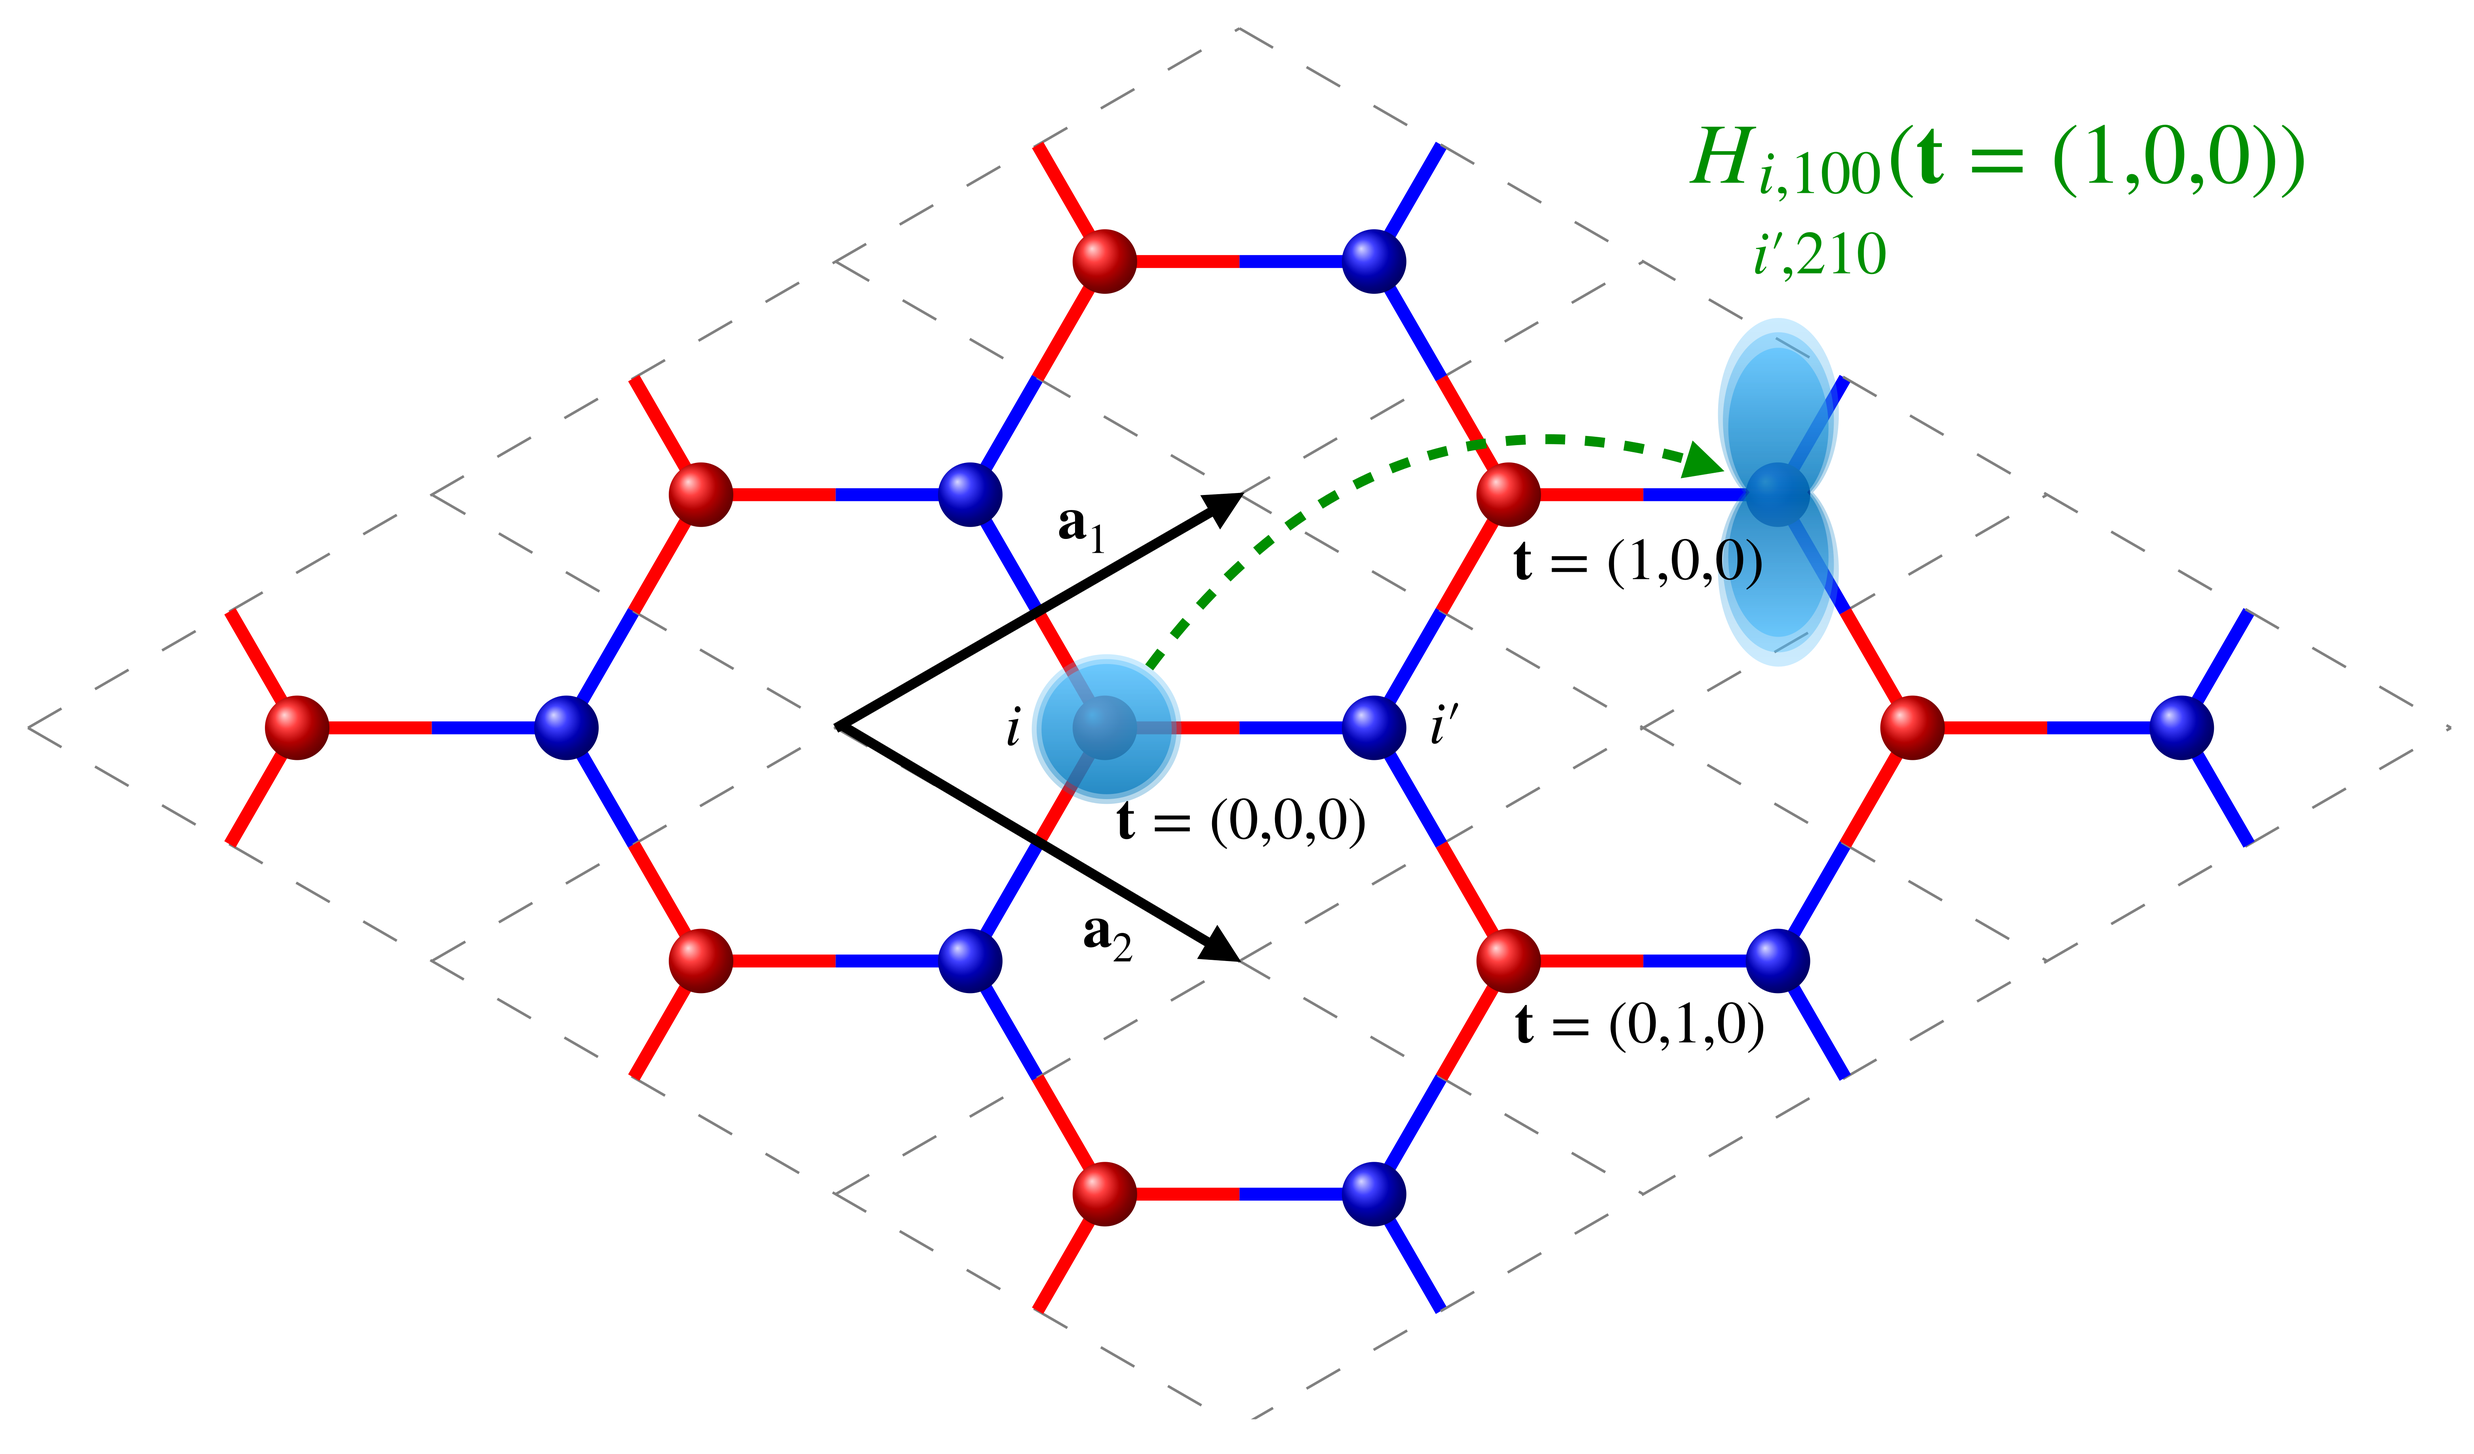
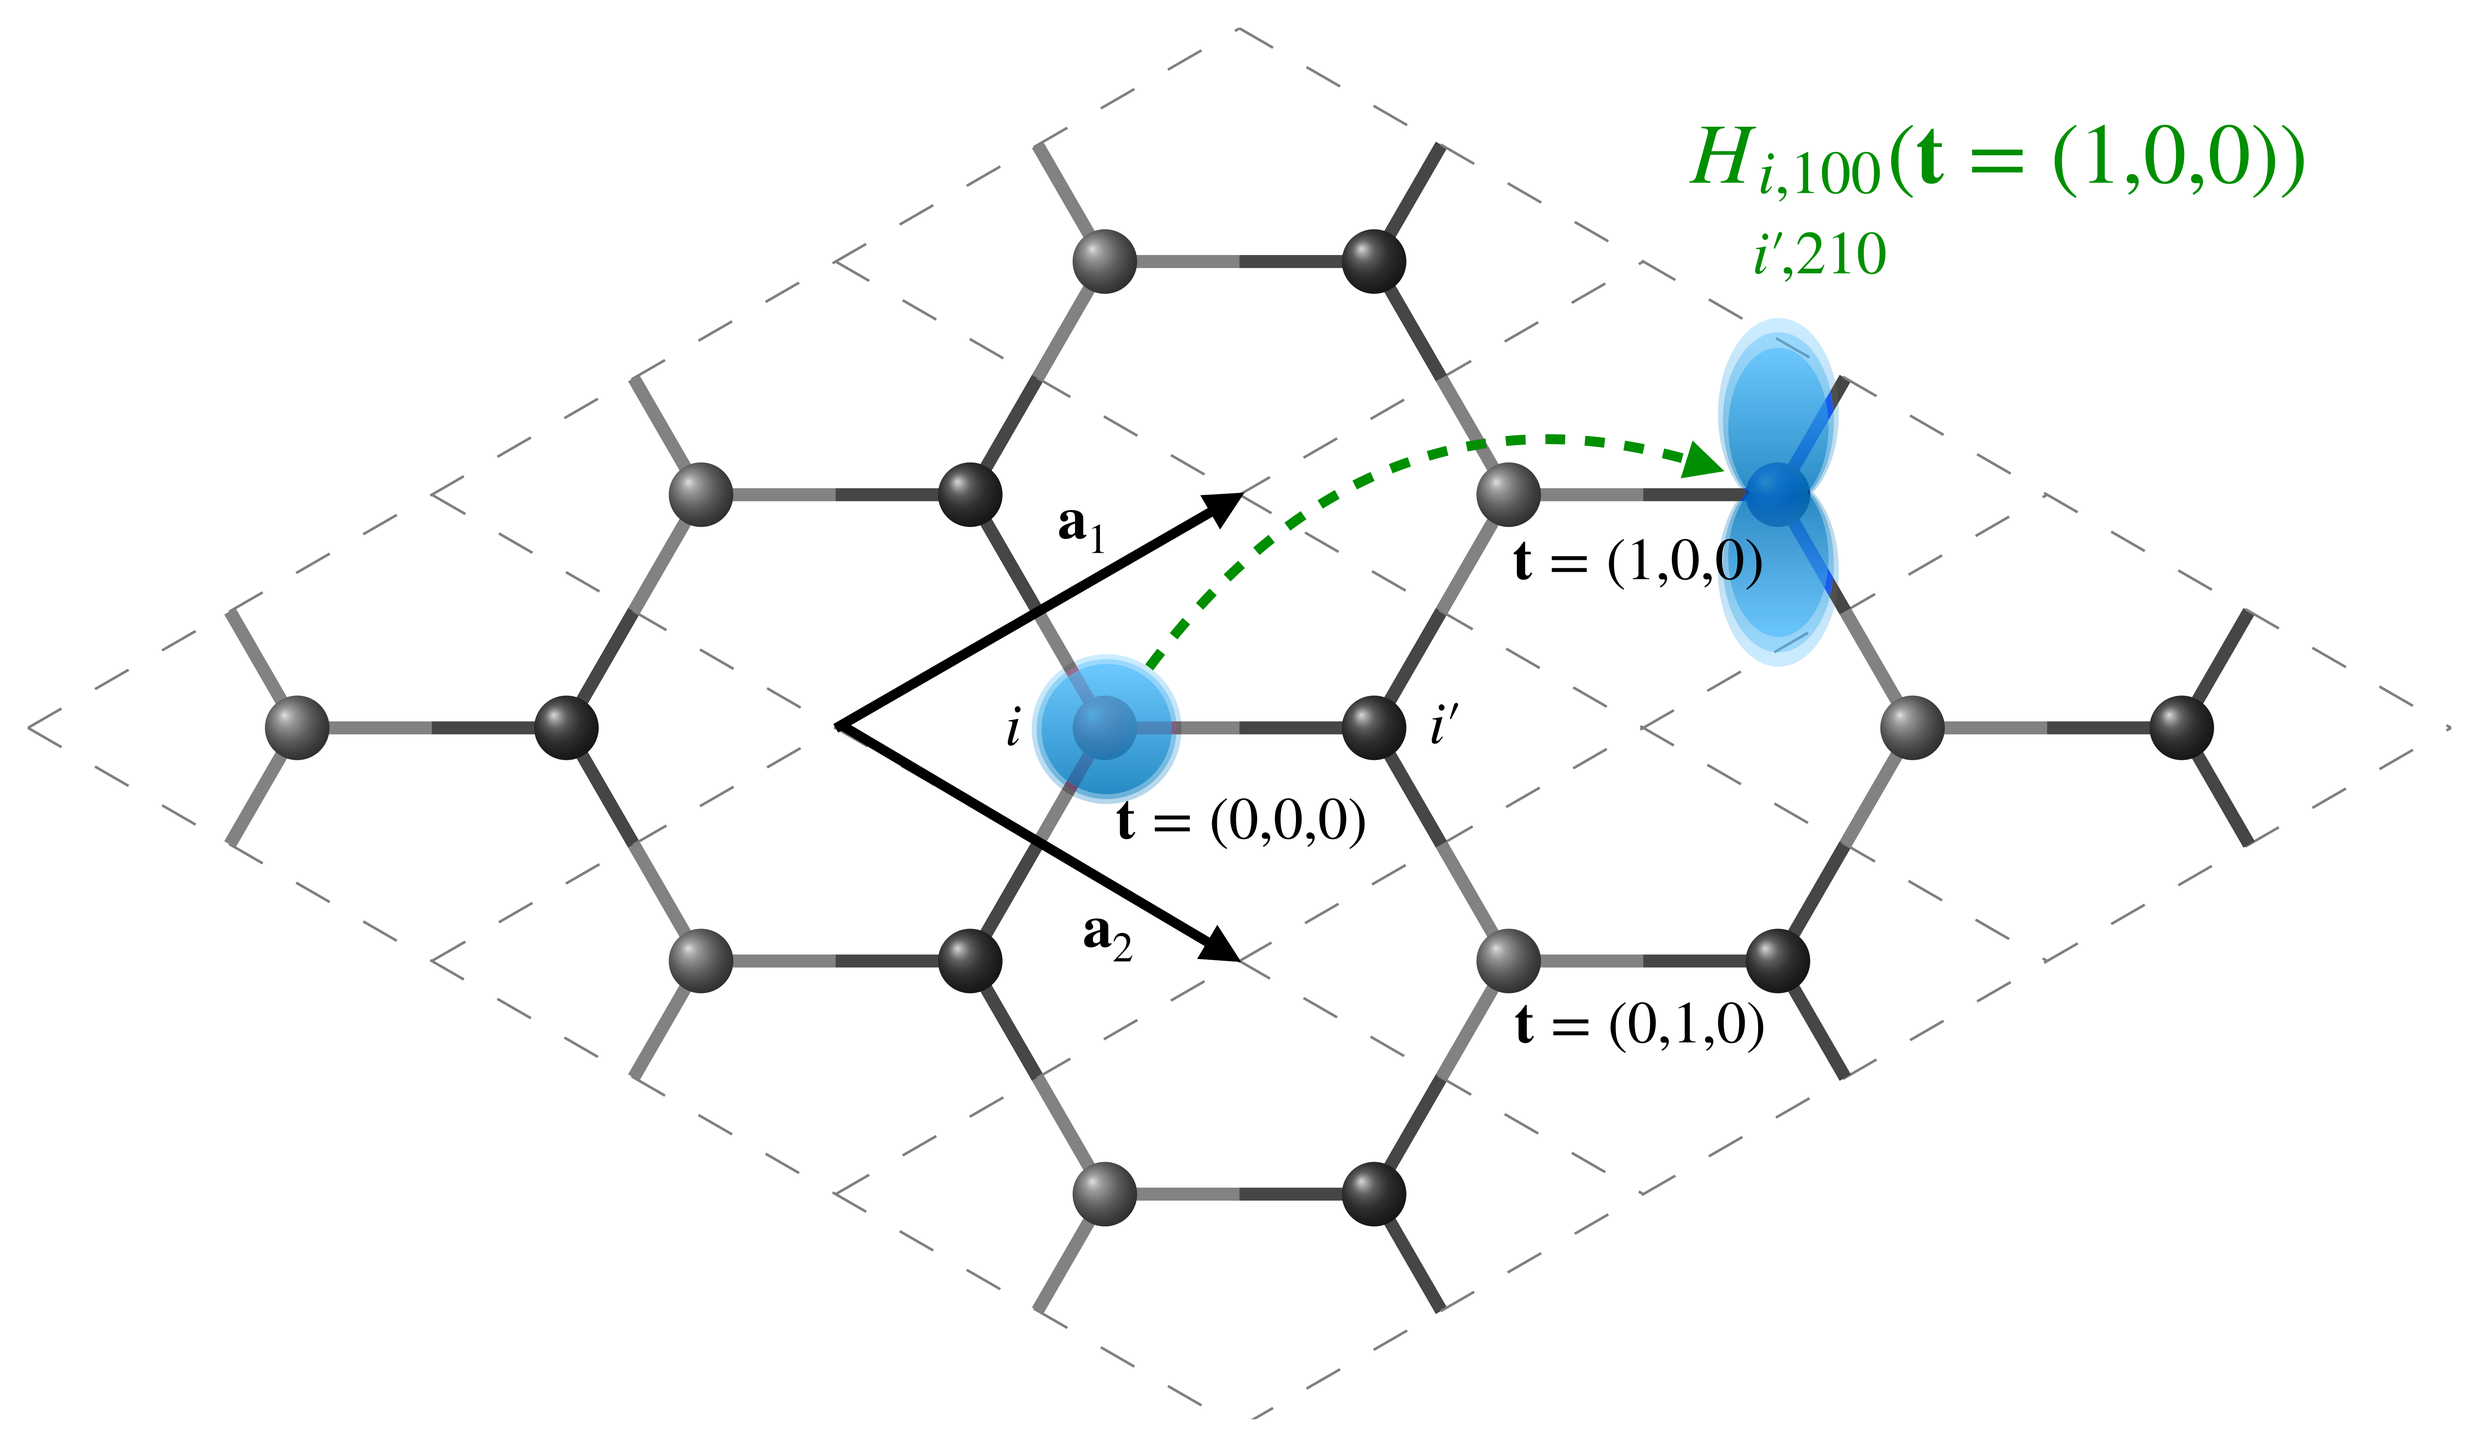
Carbon is gray - proofreading and small tweaks

diff --git a/examples/periodic-hamiltonian/periodic-hamiltonian.py b/examples/periodic-hamiltonian/periodic-hamiltonian.py
@@ -60,32 +60,36 @@ torch.set_default_dtype(torch.float64)
 # Obtain structures and DFT data
 # ~~~~~~~~~~~~~~~~~~~~~~~~~~~~~~
 #
-
+# Generating training structures requires running a suitable DFT code, 
+# and converting the output data in a format that can be processed by
+# the ML library ``mlelec``. Given that it takes some time to run even
+# these small calculations, we provide pre-computed data, but you can 
+# also find instructions on how to generate data from scratch. 
 
 # %%
+# Run your own cp2k calculations
+# ^^^^^^^^^^^^^^^^^^^^^^^^^^^^^^
+#
 # If you have computational resources, you can run the DFT calculations
 # needed to produce the data set. `This other
 # tutorial <https://tinyurl.com/cp2krun>`__ in the atomistic cookbook can
 # help you set up the CP2K calculations for this data set, using the
 # ``reftraj_hamiltonian.cp2k`` file provided in ``data/``. To do the same
 # for another data set, adapt the reftraj file.
-#
-# We will provide here some the functions in the `batch-cp2k
+# We will provide here some of the functions in the `batch-cp2k
 # tutorial <https://tinyurl.com/cp2krun>`__ that need to be adapted to the
-# current data set.
-#
+# current data set. Note however you will have to modify these and combine 
+# them with other tutorials to actually generate the data.
 
 
 # %%
-# Import all the modules from `batch-cp2k
+# Start by importing all the modules from the `batch-cp2k
 # tutorial <https://tinyurl.com/cp2krun>`__ and run the cell to install
 # CP2K. Run also the cells up to the one defining ``write_cp2k_in``.
-#
-# The following cell defines a slighly modified version of that functions,
-# allowing for non-orthorombic cells, and accounting for the reftraj file
+# The following code snippet defines a slighly modified version of that function,
+# allowing for non-orthorombic supercell, and accounting for the reftraj file
 # name change.
 #
-
 
 # %%
 # .. code:: python
@@ -122,7 +126,6 @@ torch.set_default_dtype(torch.float64)
 # current data set includes a single stoichiometry, :math:`\mathrm{C_2}`.
 # Therefore, you can run this cell to set the calculation scripts up.
 #
-
 
 # %%
 # .. code:: python
@@ -280,18 +283,15 @@ with zipfile.ZipFile(filename, "r") as zip_ref:
 
 
 # %%
-# Create a ``QMDataset`` storing the DFT data
-# ^^^^^^^^^^^^^^^^^^^^^^^^^^^^^^^^^^^^^^^^^^^
+# Periodic Hamiltonians in real and reciprocal space
+# ^^^^^^^^^^^^^^^^^^^^^^^^^^^^^^^^^^^^^^^^^^^^^^^^^^
 #
-
-
-# %%
 # The DFT calculations for the dataset above were performed using a
-# **minimal** STO-3G basis. The basis set is specified for each species
+# *minimal* STO-3G basis. The basis set is specified for each species
 # using three quantum numbers, :math:`n`, :math:`l`, :math:`m`. :math:`n`
-# is usually a natural number relating to the **radial** extent or
-# resolution whereas :math:`l` and :math:`m` specify the **angular
-# components** determining the shape of the orbital and its orientation in
+# is usually a natural number relating to the *radial* extent or
+# resolution whereas :math:`l` and :math:`m` specify the *angular
+# components* determining the shape of the orbital and its orientation in
 # space. For example, :math:`1s` orbitals correspond to :math:`n=2`,
 # :math:`l=0` and :math:`m=0`, while a :math:`2p_z` orbital corresponds to
 # :math:`n=2`, :math:`l=1` and :math:`m=1`. For the STO-3G basis-set,
@@ -306,15 +306,13 @@ orbitals = {
 
 
 # %%
-# We instantiate the ``QMDataset`` class that holds all the relevant data
-# obtained from a quantum-mechanical (in this case, DFT) calculation. In
-# particular, this instance will hold the **frames** which will form the
-# train and test structures, along with the corresponding **Hamiltonian**
-# (used interchangeably with Fock) and **overlap** matrices in the basis
-# specified above, and the :math:`k`-point grid that was used for the
+# For each *frame* which of either train and test structures, the QM data
+# comprises the configuration, along with the corresponding *overlap* and
+# *Hamiltonian* (used interchangeably with *Fock*) matrices in the basis
+# specified above, as well as the :math:`k`-point grid that was used for the
 # calculation.
 #
-# Note that we are currently specifying these matrices in **real-space**,
+# Note that we are currently specifying these matrices in *real-space*,
 # :math:`\mathbf{H}(\mathbf{t})` , such that the element
 # :math:`\langle \mathbf{0} i nlm| \hat{H}| \mathbf{t} i' n'l'm'\rangle`
 # indicates the interaction between orbital :math:`nlm` on atom :math:`i`
@@ -344,9 +342,9 @@ orbitals = {
 
 
 # %%
-# Alternatively, we can provide the matrices in **reciprocal** (or
+# Alternatively, we can provide the matrices in *reciprocal* (or
 # Fourier, :math:`k`) space. These are related to the real-space matrices
-# by a *Bloch* sum,
+# by a *Bloch sum*,
 #
 # .. math::
 #
@@ -359,7 +357,11 @@ orbitals = {
 #
 
 # %%
-# Now it is time to instantiate ``QMDataset`` from the files containing structures,
+# A ``QMDataset`` to store the DFT data
+# ^^^^^^^^^^^^^^^^^^^^^^^^^^^^^^^^^^^^^
+# The ``QMDataset`` class holds all the relevant data
+# obtained from a quantum-mechanical (in this case, DFT) calculation,
+# combining information from the files containing structures,
 # Hamiltonians and overlap matrices, and :math:`k`-point mesh.
 
 qmdata = QMDataset.from_file(
@@ -412,30 +414,30 @@ print(f"{qmdata.fock_realspace[structure_idx][realspace_translation]}")
 # %%
 # The data stored in ``QMDataset`` can be transformed into a format that
 # is optimal for machine learning modeling by leveraging the underlying
-# **physical symmetries** that characterize the atomistic structure, the
+# *physical symmetries* that characterize the atomistic structure, the
 # basis set, and their associated matrices.
 #
 # The Hamiltonian matrix is a complex learning target, indexed by two
 # atoms and the orbitals centered on them. Each
-# :math:`\mathbf{H}(\mathbf{k})` is a **Hermitian** matrix, while in real
-# space, periodicity introduces a **symmetry over translation pairs** such
+# :math:`\mathbf{H}(\mathbf{k})` is a *Hermitian* matrix, while in real
+# space, periodicity introduces a *symmetry over translation pairs* such
 # that :math:`\mathbf{H}(-\mathbf{t}) = \mathbf{H}(\mathbf{t})^\dagger`,
 # where the dagger, :math:`\dagger`, denotes Hermitian conjugation.
 #
 # To address the symmetries associated with swapping atomic indices or
-# orbital labels, we divide the matrix into **blocks labeled by pairs of
-# atom types**.
+# orbital labels, we divide the matrix into *blocks labeled by pairs of
+# atom types*.
 #
-# -  ``block_type = 0``, or **on-site** blocks, consist of elements
+# -  ``block_type = 0``, or *on-site* blocks, consist of elements
 #    corresponding to the interaction of orbitals on the same atom,
 #    :math:`i = i'`.
 #
-# -  ``block_type = 2``, or **cross-species** blocks, consist of elements
+# -  ``block_type = 2``, or *cross-species* blocks, consist of elements
 #    corresponding to orbitals centered on atoms of distinct species.
 #    Since the two atoms can be distinguished, they can be consistently
 #    arranged in a predetermined order.
 #
-# -  ``block_type = 1, -1``, or **same-species** blocks, consist of
+# -  ``block_type = 1, -1``, or *same-species* blocks, consist of
 #    elements corresponding to orbitals centered on distinct atoms of the
 #    same species. As these atoms are indistinguishable and cannot be
 #    ordered definitively, the pair must be symmetrized for permutations.
@@ -455,11 +457,11 @@ print(f"{qmdata.fock_realspace[structure_idx][realspace_translation]}")
 
 # %%
 # Even though the Hamiltonian operator under consideration is invariant,
-# **its representation transforms under the action of structural rotations
-# and inversions** due to the choice of the basis functions. Each of the
+# *its representation transforms under the action of structural rotations
+# and inversions* due to the choice of the basis functions. Each of the
 # blocks has elements of the form
 # :math:`\langle\mathbf{0}inlm|\hat{H}|\mathbf{t}i'n'l'm'\rangle`, which
-# are in an **uncoupled** representation and transform as a product of
+# are in an *uncoupled* representation and transform as a product of
 # (real) spherical harmonics, :math:`Y_l^m \otimes Y_{l'}^{m'}`.
 #
 # This product can be decomposed into a direct sum of irreducible
@@ -470,9 +472,11 @@ print(f"{qmdata.fock_realspace[structure_idx][realspace_translation]}")
 # which express the Hamiltonian blocks in terms of contributions that
 # rotate independently and can be modeled using a feature that
 # geometrically describes the pair of atoms under consideration and shares
-# the same symmetry.
+# the same symmetry. We use the notation 
+# :math:`H_{ii';nn'll'}^{\lambda\mu}` to indicate the elements of the 
+# Hamiltonian in this coupled basis.
 #
-# The resulting irreps form a **coupled** representation, each of which
+# The resulting irreps form a *coupled* representation, each of which
 # transforms as a spherical harmonic :math:`Y^\mu_\lambda` under
 # :math:`\mathrm{SO(3)}` rotations, but may exhibit more complex behavior
 # under inversions. For example, spherical harmonics transform under
@@ -480,12 +484,13 @@ print(f"{qmdata.fock_realspace[structure_idx][realspace_translation]}")
 #
 # .. math:: \hat{i}Y^\mu_\lambda = (-1)^\lambda Y^\mu_\lambda.
 #
-# Some of the coupled basis terms instead transform as pseudotensors,
+# Some of the coupled basis terms transform like :math:`Y^\mu_\lambda`,
+# while others instead transform as pseudotensors,
 #
-# .. math:: \hat{i}H_{ii'}^{\lambda\mu}=(-1)^{\lambda+1}H_{ii'}^{\lambda\mu}
+# .. math:: \hat{i}H^{\lambda\mu}=(-1)^{\lambda+1}H^{\lambda\mu}
 #
-# where the notation for Hamiltonian matrix elements in the coupled
-# representaion has been introduced. For more details about the block
+# where we omit for simplicity the indices that are not directly associated
+# with inversion and rotation symmetry. For more details about the block
 # decomposition, please refer to `Nigam et al., J. Chem. Phys. 156, 014115
 # (2022) <https://pubs.aip.org/aip/jcp/article/156/1/014115/2839817>`__.
 #
@@ -564,8 +569,8 @@ ani = FuncAnimation(fig, update, frames=len(images), interval=20, blit=True)
 # %%
 # The features are discretized on a basis of radial functions and
 # spherical harmonics, and their performance may depend on the
-# **resolution** of the functions included in the model. There are
-# additional hyperparameters, such as the **cutoff** radius, which
+# *resolution* of the functions included in the model. There are
+# additional hyperparameters, such as the *cutoff* radius, which
 # controls the extent of the atomic environment, and Gaussian widths. In
 # the following, we allow for flexibility in discretizing the
 # atom-centered and two-centered ACDCs by defining the hyperparameters for
@@ -684,8 +689,8 @@ mldata.items.overlap_kspace[structure_idx][k_idx]
 
 
 # %%
-# Build a machine learning model for the electronic Hamiltonian of graphene
-# -------------------------------------------------------------------------
+# A machine learning model for the electronic Hamiltonian of graphene
+# -------------------------------------------------------------------
 #
 
 
@@ -693,9 +698,6 @@ mldata.items.overlap_kspace[structure_idx][k_idx]
 # Linear model
 # ~~~~~~~~~~~~
 #
-
-
-# %%
 # In simple cases, such as the present one, it is convenient to start with
 # a linear model that directly maps the geometric descriptors to the
 # target coupled blocks. This can be achieved using `Ridge regression
@@ -890,19 +892,22 @@ fig.tight_layout()
 
 # %%
 # Adding nonlinearities
-# ~~~~~~~~~~~~~~~~~~~~~
+# ---------------------
 #
 
 
 # %%
-# The model consists of several submodels, one for each Hamiltonian
+# The model used above consists of several submodels, one for each Hamiltonian
 # coupled block. Each submodel can be extended to a `multilayer
 # perceptron <https://en.wikipedia.org/wiki/Multilayer_perceptron>`__
 # (MLP) that maps the corresponding set of geometric features to the
 # Hamiltonian coupled block. Nonlinearities are applied to the invariants
 # constructed from each equivariant feature block using the
-# ``EquivariantNonlinearity`` module.
-#
+# ``EquivariantNonlinearity`` module. This section outlines the process to
+# modify the model to introduce non-linear terms. Given that the time 
+# to train and evaluate the model would then increase, this section 
+# includes snippets of code, but is not a complete implementation and
+# is not executed when running this example.
 
 
 # %%
